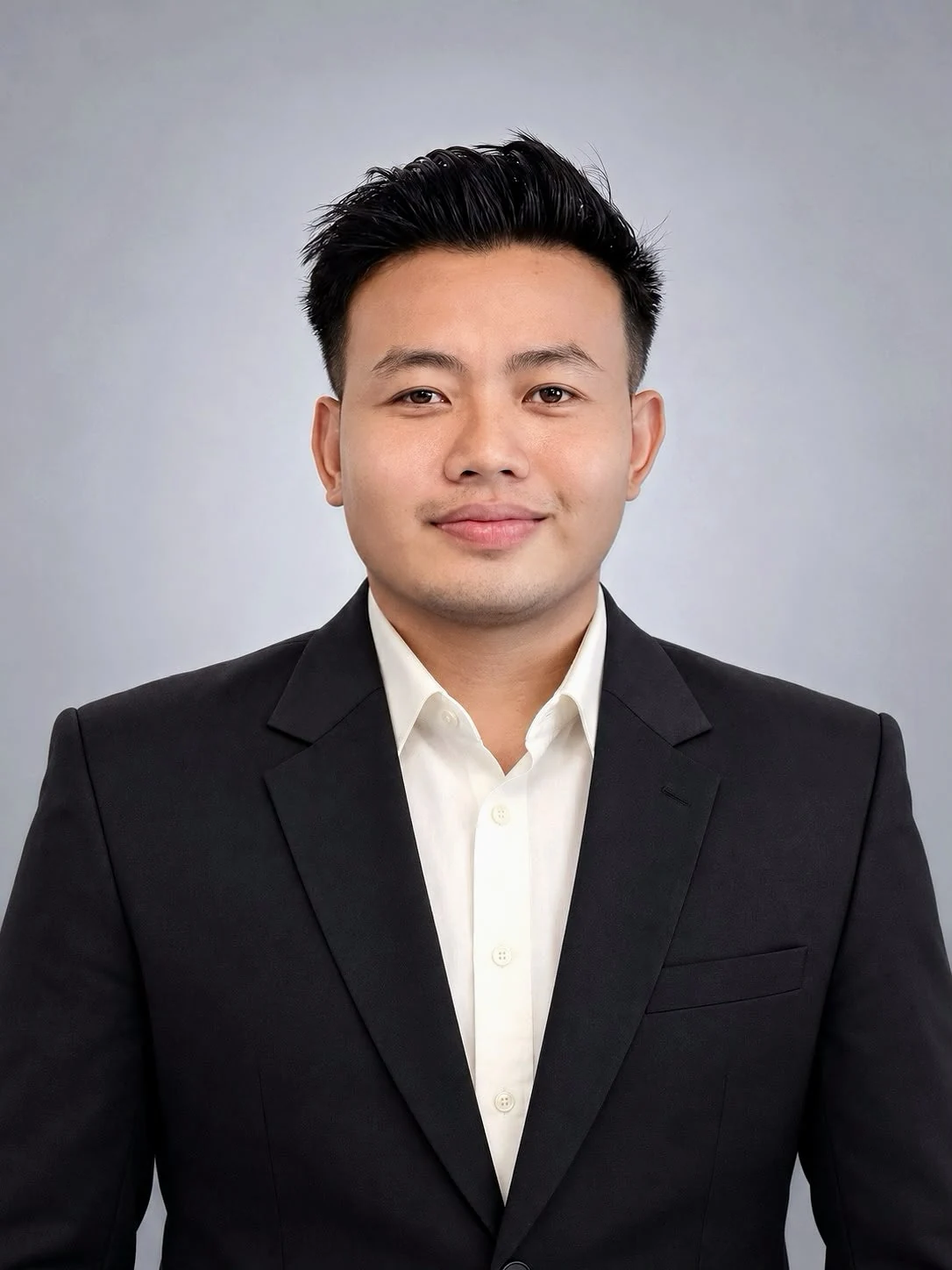
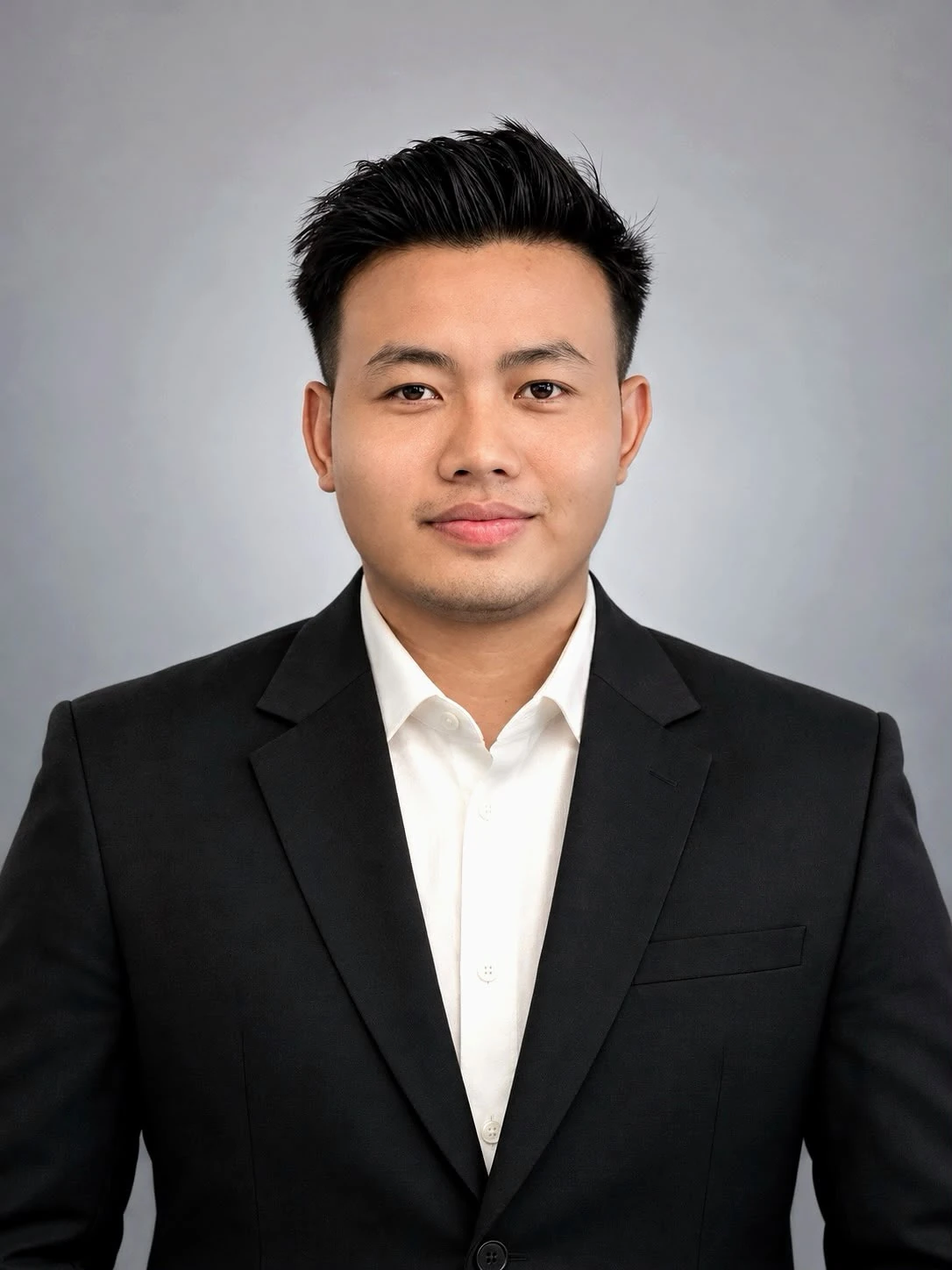
Update portfolio website

diff --git a/index.html b/index.html
@@ -1,33 +1,95 @@
-<!doctype html>
+<!DOCTYPE html>
+
 <html lang="en">
 <head>
-  <meta charset="utf-8">
-  <meta name="viewport" content="width=device-width, initial-scale=1">
-  <meta name="theme-color" content="#071728">
-  <meta name="description" content="Sandi Rahman — Quality Assurance / IPQC Staff with a manufacturing background. Selected work in drone assembly, process improvement, workplace standardization, and quality systems.">
-  <meta property="og:title" content="Sandi Rahman | Manufacturing & Quality Portfolio">
-  <meta property="og:description" content="From production operations to quality assurance. Explore manufacturing projects, 5S, jig standardization and practical quality improvement.">
-  <meta property="og:type" content="website">
-  <title>Sandi Rahman — Manufacturing & Quality Portfolio</title>
-  <link rel="icon" href="assets/favicon.svg" type="image/svg+xml">
-  <link rel="preconnect" href="https://fonts.googleapis.com">
-  <link rel="preconnect" href="https://fonts.gstatic.com" crossorigin>
-  <link href="https://fonts.googleapis.com/css2?family=DM+Sans:wght@400;500;600;700;800&family=Space+Grotesk:wght@400;500;600;700&display=swap" rel="stylesheet">
-  <link rel="stylesheet" href="styles.css">
+<meta charset="utf-8"/>
+<meta content="width=device-width, initial-scale=1" name="viewport"/>
+<meta content="#071728" name="theme-color"/>
+<meta content="Sandi Rahman — Quality Assurance / IPQC Staff with a manufacturing background. Selected work in drone assembly, process improvement, workplace standardization, and quality systems." name="description"/>
+<meta content="Sandi Rahman | Manufacturing &amp; Quality Portfolio" property="og:title"/>
+<meta content="From production operations to quality assurance. Explore manufacturing projects, 5S, jig standardization and practical quality improvement." property="og:description"/>
+<meta content="website" property="og:type"/>
+<title>Sandi Rahman — Manufacturing &amp; Quality Portfolio</title>
+<link href="assets/favicon.svg" rel="icon" type="image/svg+xml"/>
+<link href="https://fonts.googleapis.com" rel="preconnect"/>
+<link crossorigin="" href="https://fonts.gstatic.com" rel="preconnect"/>
+<link href="https://fonts.googleapis.com/css2?family=DM+Sans:wght@400;500;600;700;800&amp;family=Space+Grotesk:wght@400;500;600;700&amp;display=swap" rel="stylesheet"/>
+<link href="styles.css" rel="stylesheet"/>
 </head>
 <body>
-  <a class="skip-link" href="#main">Skip to content</a>
-  <div class="scroll-progress" id="scrollProgress" aria-hidden="true"></div>
-  <header class="site-header" id="siteHeader">
-    <div class="header-inner wrap">
-      <a class="brand" href="#top" aria-label="Sandi Rahman — home"><span class="brand-mark">S<span class="brand-slash">/</span>R<span class="brand-dot">.</span></span><span class="brand-wordmark">SANDI RAHMAN<small>MANUFACTURING + QUALITY</small></span></a>
-      <nav class="main-nav" id="mainNav" aria-label="Main navigation">
-        <a href="#about">About</a><a href="#work">Selected work</a><a href="#journey">Career</a><a href="#expertise">Expertise</a><a href="#contact">Contact</a>
-      </nav>
-      <div class="header-actions"><a class="nav-resume" href="assets/CV-Sandi-Rahman.pdf" download>Download CV <span aria-hidden="true">↙</span></a><button class="menu-toggle" id="menuToggle" type="button" aria-label="Open menu" aria-controls="mainNav" aria-expanded="false"><span></span><span></span><span></span></button></div>
-    </div>
-  </header>
+<a class="skip-link" href="#main">Skip to content</a>
+<div aria-hidden="true" class="scroll-progress" id="scrollProgress"></div>
+<header class="site-header" id="siteHeader">
+<div class="header-inner wrap">
+<a aria-label="Sandi Rahman — home" class="brand" href="#top"><span class="brand-mark">S<span class="brand-slash">/</span>R<span class="brand-dot">.</span></span><span class="brand-wordmark">SANDI RAHMAN<small>MANUFACTURING + QUALITY</small></span></a>
+<nav aria-label="Main navigation" class="main-nav" id="mainNav">
+<a href="#about">About</a><a href="#journey">Experience</a><a href="#work">Projects</a><a href="#expertise">Expertise</a><a href="#contact">Contact</a>
+</nav>
+<div class="header-actions"><a class="nav-resume" download="" href="assets/CV-Sandi-Rahman.pdf">Download CV <span aria-hidden="true">↙</span></a><button aria-controls="mainNav" aria-expanded="false" aria-label="Open menu" class="menu-toggle" id="menuToggle" type="button"><span></span><span></span><span></span></button></div>
+</div>
+</header>
+<main id="main">
+<section aria-labelledby="hero-title" class="hero" id="top">
+<div aria-hidden="true" class="hero-grid-lines"></div>
+<div class="wrap hero-layout">
+<div class="hero-copy">
+<div class="eyebrow light"><span class="pulse"></span> PORTFOLIO / 2026 <span class="eyebrow-line"></span> QUALITY ASSURANCE · IPQC</div>
+<h1 id="hero-title">Where <span class="hero-outline">production</span><br/>meets <em>precision.</em></h1>
+<p class="hero-sub">I'm <strong>Sandi Rahman</strong> — a Quality Assurance / IPQC Staff professional with a background in production leadership, hands-on manufacturing, and continuous improvement.</p>
+<div class="hero-buttons"><a class="btn btn-accent" href="#work">Explore selected work <span aria-hidden="true">↗</span></a><a class="btn btn-outline" href="#about">The story behind my work <span aria-hidden="true">↓</span></a></div>
+<div class="hero-facts"><div><strong>05<span class="plus">+</span></strong><span>Years in laptop<br/>manufacturing</span></div><div><strong>04</strong><span>Stages in my<br/>career journey</span></div><div><strong>05</strong><span>Featured<br/>initiatives</span></div></div>
+</div>
+<div class="hero-visual">
+<div class="visual-orbit orbit-one"></div><div class="visual-orbit orbit-two"></div>
+<div class="portrait-frame"><img alt="Professional portrait of Sandi Rahman in a black suit and white shirt" fetchpriority="high" height="1448" src="assets/sandi-profile.webp" width="1086"/><div class="portrait-shine"></div></div>
+<div aria-hidden="true" class="hero-vertical-type">MAKE QUALITY VISIBLE — 001</div>
+<div class="portrait-label"><div class="label-led"></div><div><span>CURRENT POSITION</span><strong>QUALITY ASSURANCE / IPQC STAFF</strong></div><span class="tiny-arrow">↗</span></div>
+<div aria-hidden="true" class="floating-coordinate">SR / 01<br/>JKT — ID</div>
+</div>
+</div>
+<div class="hero-bottom wrap"><span>SCROLL TO DISCOVER <span aria-hidden="true">↓</span></span><span>INSPECTION  /  PEOPLE  /  IMPROVEMENT</span></div>
+</section>
+<section aria-labelledby="about-title" class="intro-section section-pad" id="about">
+<div class="wrap intro-layout">
+<div class="section-rail"><span class="section-index">01 / INTRODUCTION</span><span class="small-line"></span></div>
+<div class="intro-title"><div class="eyebrow dark">THE APPROACH</div><h2 id="about-title">Quality isn't just <br/>a checkpoint.<br/><span>It's a mindset.</span></h2></div>
+<div class="intro-text"><p class="lead">My work connects the reality of the production floor with structured quality control and practical improvements people can sustain.</p><p>From laptop assembly and manpower coordination to IPQC inspection, I bring a production-first perspective to quality. I focus on spotting risks early, standardizing good practices, and working across teams to prevent recurring problems.</p><div class="mini-proof"><span>FIRST PIECE INSPECTION</span><span>BOM VERIFICATION</span><span>5S / 5R</span><span>CAPA</span></div></div>
+</div>
+</section>
+<section aria-labelledby="journey-title" class="journey-section section-pad" id="journey"><div class="wrap journey-layout"><div class="journey-intro"><div class="eyebrow light">02 / EXPERIENCE</div><h2 id="journey-title">Built from the<br/><em>production floor.</em></h2><p>My career has progressed through hands-on assembly, product-quality inspection, production leadership, and Quality Assurance.</p><div class="career-stamp"><span>2021</span><span class="career-arrow">→</span><span>PRESENT</span></div></div><div class="timeline"><div class="timeline-item is-current"><div class="time-range">APR 2024 — PRESENT</div><h3>Quality Assurance Staff – IPQC</h3><p>First-piece inspection, process compliance, material/BOM verification, defect investigations, CAPA and production quality reporting.</p><span class="time-org">PT Tera Data Indonusa Tbk · Axioo</span></div><div class="timeline-item"><div class="time-range">JUL 2022 — MAR 2024</div><h3>Production Leader</h3><p>Manpower allocation, production output monitoring, line discipline, material readiness, operator briefings, and cross-functional coordination.</p><span class="time-org">PT Tera Data Indonusa Tbk · Axioo</span></div><div class="timeline-item"><div class="time-range">APR 2022 — JUN 2022</div><h3>Production Operator – Quality</h3><p>Hardware specification verification, functional testing, visual inspection, defect segregation, and product validation.</p><span class="time-org">PT Tera Data Indonusa Tbk · Axioo</span></div><div class="timeline-item"><div class="time-range">SEP 2021 — MAR 2022</div><h3>Production Operator Intern</h3><p>Laptop assembly, component installation, material readiness checks, and self-inspection following work instructions.</p><span class="time-org">PT Tera Data Indonusa Tbk · Axioo</span></div></div></div></section><section aria-labelledby="work-title" class="work-section section-pad" id="work">
+<div class="wrap">
+<div class="section-heading"><div><div class="eyebrow dark">03 / PROJECT PORTFOLIO</div><h2 id="work-title">Selected work<span class="punct">.</span></h2><p>Real manufacturing experience, process improvements, and digital quality initiatives — presented as individual contributions.</p></div><div class="heading-side">05 INITIATIVES <span aria-hidden="true">↘</span></div></div>
+<div aria-label="Filter projects" class="filters" role="group"><button aria-pressed="true" class="filter is-active" data-filter="all" type="button">All projects <span>05</span></button><button aria-pressed="false" class="filter" data-filter="manufacturing" type="button">Manufacturing</button><button aria-pressed="false" class="filter" data-filter="improvement" type="button">Improvement</button><button aria-pressed="false" class="filter" data-filter="digital" type="button">Digital systems</button></div>
+<article class="project-card flagship" data-category="manufacturing">
+<div class="flagship-art"><button aria-label="Open agricultural drone project documentation" class="image-button" data-caption="Axioo Sekar Agri — manufacturing process and CKD-to-finished-goods documentation" data-img="assets/drone-assembly.webp" type="button"><img alt="Presentation showing six phases of the Axioo Sekar Agri agricultural drone assembly project" loading="lazy" src="assets/drone-assembly.webp"/><span class="view-indicator">VIEW FULL PROJECT IMAGE <span aria-hidden="true">↗</span></span></button></div>
+<div class="project-info"><div class="project-topline"><span class="project-count">PROJECT / 01</span><span class="project-type">MANUFACTURING</span></div><h3>Axioo Sekar Agri<span class="project-subheading">Agricultural drone assembly</span></h3><p>Contributed to the end-to-end manufacturing and assembly of an agricultural drone, from CKD components to finished goods, supporting the company's TKDN initiative.</p><div class="process-line"><span>CKD PREPARATION</span><i aria-hidden="true"></i><span>ASSEMBLY</span><i aria-hidden="true"></i><span>FINISHED GOODS</span></div><div class="project-outcome"><span class="outcome-icon">↗</span><span>Hands-on manufacturing, integration and production process exposure.</span></div><button class="text-action" data-caption="Axioo Sekar Agri — manufacturing process and assembly stages" data-img="assets/drone-assembly.webp" type="button">Explore documentation <span aria-hidden="true">↗</span></button></div>
+<div class="drone-proof">
+<div class="drone-proof-image"><button aria-label="Enlarge documentation photo of finished Axioo Sekar Agri drone" class="drone-evidence-photo" data-caption="Axioo Sekar Agri — photographic documentation of the finished agricultural drone with the project team" data-img="assets/drone-finished-goods.webp" type="button"><img alt="Project documentation showing the completed agricultural drone and manufacturing team" loading="lazy" src="assets/drone-finished-goods.webp"/><span class="photo-magnify">VIEW FULL PHOTO ↗</span></button></div>
+<div class="drone-proof-copy"><span class="proof-index"><span class="proof-dot"></span> FIELD DOCUMENTATION / FINISHED GOODS</span><h4>From assembly<br/><em>to the real unit.</em></h4><p>Photographic evidence of the completed Axioo Sekar Agri drone and the assembly project team, complementing the CKD-to-finished-goods process overview.</p><div class="proof-badges"><span>AGRICULTURAL DRONE</span><span>FINISHED GOODS</span><span>TKDN INITIATIVE</span></div><button class="proof-link" data-caption="Axioo Sekar Agri — completed drone and project team" data-img="assets/drone-finished-goods.webp" type="button">View finished-drone photo <span aria-hidden="true">↗</span></button></div>
+</div></article>
+<article class="project-card improvement-feature" data-category="improvement">
+<div class="project-topline"><span class="project-count">PROJECT / 02</span><span class="project-type">WORKPLACE IMPROVEMENT</span></div>
+<div class="improvement-head"><div><h3>5S / 5R<span class="project-subheading">Workplace standardization</span></h3></div><p>Improving workplace organization through structured storage, area markings, clear material separation and consistent visual management.</p></div>
+<div aria-label="5S improvement documentation" class="gallery-grid">
+<button class="gallery-shot" data-caption="5S / 5R — workbench organization, before and after" data-img="assets/workplace-5s-01.webp" type="button"><img alt="Before-and-after presentation showing a cleaner and more organized workbench" loading="lazy" src="assets/workplace-5s-01.webp"/><span>01 — WORKBENCH <b>↗</b></span></button>
+<button class="gallery-shot" data-caption="5S / 5R — shelf organization, before and after" data-img="assets/workplace-5s-02.webp" type="button"><img alt="Before-and-after presentation showing standardized storage shelves" loading="lazy" src="assets/workplace-5s-02.webp"/><span>02 — STORAGE <b>↗</b></span></button>
+<button class="gallery-shot" data-caption="5S / 5R — single-model material flow and reduced mixing risk (internal IDs obscured)" data-img="assets/workplace-5s-03.webp" type="button"><img alt="Before-and-after presentation of material staging and production walkway" loading="lazy" src="assets/workplace-5s-03.webp"/><span>03 — MATERIAL FLOW <b>↗</b></span></button>
+<button class="gallery-shot" data-caption="5S / 5R — area visual labels and workplace zoning" data-img="assets/workplace-5s-04.webp" type="button"><img alt="Before-and-after presentation of designated zones and visual signage" loading="lazy" src="assets/workplace-5s-04.webp"/><span>04 — VISUAL CONTROL <b>↗</b></span></button>
+<button aria-label="Open visual management documentation for red NG and green OK after repair racks" class="gallery-shot featured-rack" data-caption="5S visual management — red storage rack designated for NG units; green rack for OK units after repair" data-img="assets/five-s-visual-racks.webp" type="button"><img alt="5S improvement poster showing a red NG rack and green OK after repair rack with visual area signs" loading="lazy" src="assets/five-s-visual-racks.webp"/><span>05 — RED / GREEN RACK VISUAL CONTROL <b aria-hidden="true">↗</b></span></button></div><div class="gallery-footnote"><span><span class="dot-blue"></span> 05 documented 5S improvements</span><span>Tap any image to zoom and view the full slide.</span></div>
+</article>
+<article class="project-card jig-feature" data-category="improvement">
+<div class="jig-copy"><div class="project-topline"><span class="project-count">PROJECT / 03</span><span class="project-type">PROCESS STANDARDIZATION</span></div><h3>Standardization<br/>of sticker <span class="cyan-word">JIG.</span></h3><p>Designed and implemented a sticker positioning jig for product and box labels to improve consistency, make alignment easier for operators, and help reduce labeling-related complaints.</p><div class="jig-highlights"><span>01 / POSITION</span><span>02 / VERIFY</span><span>03 / REPEAT</span></div><button class="text-action" data-caption="Sticker positioning JIG — process, alignment check, and consistent application (codes obscured)" data-img="assets/jig-standardization.webp" type="button">View the process <span aria-hidden="true">↗</span></button></div>
+<div class="jig-art"><button aria-label="Open sticker jig implementation slide" class="image-button" data-caption="Sticker positioning JIG — presentation (barcodes and serial details obscured)" data-img="assets/jig-standardization.webp" type="button"><img alt="Three-step sticker positioning JIG standardization slide" loading="lazy" src="assets/jig-standardization.webp"/><span class="view-indicator">VIEW FULL SLIDE ↗</span></button></div>
+</article>
+<div class="digital-grid">
+<article class="project-card digital-card" data-category="digital"><div class="project-topline"><span class="project-count">PROJECT / 04</span><span class="project-type">QUALITY REPORTING</span></div><div aria-label="Illustrative reporting workflow, not an actual application screenshot" class="digital-illustration"><div class="diagram-header"><span class="mini-bars">▥</span><span>DAILY QUALITY REVIEW</span><span class="diagram-live">WORKFLOW</span></div><div class="chart-placeholder"><div class="bar" style="--h:43%"></div><div class="bar" style="--h:65%"></div><div class="bar" style="--h:48%"></div><div class="bar" style="--h:83%"></div><div class="bar" style="--h:60%"></div><div class="bar" style="--h:100%"></div><div class="bar" style="--h:73%"></div></div><div class="diagram-bottom"><span>COLLECT</span><span>→</span><span>CONSOLIDATE</span><span>→</span><span>REVIEW</span></div></div><h3>Automated daily<br/>review reporting</h3><p>Built an Excel-based reporting template to streamline compilation of production and quality data and support management reviews.</p><span class="illustration-disclaimer">Workflow illustration • no internal data displayed</span></article>
+<article class="project-card digital-card" data-category="digital"><div class="project-topline"><span class="project-count">PROJECT / 05</span><span class="project-type">QUALITY SYSTEMS</span></div><div aria-label="Illustrative Severity, Occurrence, Detection risk scoring workflow" class="risk-illustration"><div class="risk-column"><span>SEVERITY</span><strong>S</strong></div><span class="times">×</span><div class="risk-column"><span>OCCURRENCE</span><strong>O</strong></div><span class="times">×</span><div class="risk-column"><span>DETECTION</span><strong>D</strong></div><span class="risk-chevron">↗</span><div class="risk-result">RISK PRIORITY</div></div><h3>Digital quality findings<br/>&amp; risk assessment</h3><p>Developed a Google Forms-based finding system using Severity, Occurrence, and Detection to support prioritization, traceability, and corrective-action follow-up.</p><span class="illustration-disclaimer">Concept diagram • not a production screenshot</span></article>
+</div>
+<p class="empty-filter" hidden="" id="emptyFilter">No projects match this category.</p>
+</div>
+</section>
 
+<<<<<<< Updated upstream
   <main id="main">
     <section class="hero" id="top" aria-labelledby="hero-title">
       <div class="hero-grid-lines" aria-hidden="true"></div>
@@ -106,5 +168,19 @@
 
   <div class="lightbox" id="lightbox" role="dialog" aria-modal="true" aria-label="Portfolio image viewer" aria-hidden="true" hidden><div class="lightbox-backdrop" data-close="true"></div><div class="viewer"><div class="viewer-top"><span class="viewer-counter" id="viewerCounter">01 / 01</span><div class="viewer-tools"><button type="button" id="zoomOut" aria-label="Zoom out">−</button><span id="zoomDisplay">100%</span><button type="button" id="zoomIn" aria-label="Zoom in">+</button><button type="button" id="zoomReset" aria-label="Reset zoom">↺</button><button class="viewer-close" type="button" id="viewerClose" aria-label="Close viewer">✕</button></div></div><div class="viewer-stage" id="viewerStage"><button class="viewer-arrow prev" type="button" id="viewerPrev" aria-label="Previous image">‹</button><img id="viewerImage" alt=""><button class="viewer-arrow next" type="button" id="viewerNext" aria-label="Next image">›</button></div><div class="viewer-bottom"><p id="viewerCaption"></p><span>← → NAVIGATE <span class="hide-mobile">·</span> ESC TO CLOSE</span></div></div></div>
   <script src="script.js" defer></script>
+=======
+<section aria-labelledby="expertise-title" class="expertise-section section-pad" id="expertise"><div class="wrap"><div class="section-heading"><div><div class="eyebrow dark">04 / CAPABILITIES</div><h2 id="expertise-title">How I create value<span class="punct">.</span></h2><p>Practical technical capabilities supported by daily manufacturing experience.</p></div></div><div class="capability-grid"><div class="capability"><span aria-hidden="true" class="cap-icon">◎</span><span class="cap-number">01</span><h3>Quality inspection</h3><p>First Piece Inspection, IPQC, process audit, BOM checks, nonconformity control.</p></div><div class="capability"><span aria-hidden="true" class="cap-icon">⤧</span><span class="cap-number">02</span><h3>Problem solving</h3><p>RCA, 5 Whys, Fishbone, QC Seven Tools, PDCA, CAPA and FMEA.</p></div><div class="capability"><span aria-hidden="true" class="cap-icon">▤</span><span class="cap-number">03</span><h3>Operations &amp; people</h3><p>Production supervision, manpower planning, operator training, performance monitoring.</p></div><div class="capability"><span aria-hidden="true" class="cap-icon">⌁</span><span class="cap-number">04</span><h3>Data &amp; improvement</h3><p>Excel reporting, defect-trend analysis, workplace 5S/5R, visual management, Lean improvement.</p></div></div>
+<div class="extra-grid"><div class="education"><div class="eyebrow dark">EDUCATION</div><h3>Industrial Engineering<br/><span>in progress.</span></h3><p><strong>Universitas Pamulang</strong> · 2025 – Expected 2026</p><p>Bachelor of Engineering in Industrial Engineering (in progress).</p><div class="edu-divider"></div><p><strong>SMK Islam Inayah Ujung Batu</strong> · 2018 – 2021</p><p>Computer and Network Engineering.</p></div><div class="learning"><div class="eyebrow dark">KNOWLEDGE SHARING</div><div class="knowledge-gallery">
+<div class="knowledge-shot"><button class="talk-photo" data-caption="Knowledge sharing: Sandi presenting the connection between 5S, occupational safety (K3) and productivity" data-img="assets/safety-talk.webp" type="button"><img alt="Sandi beside a presentation screen explaining 5S and occupational safety (K3)" loading="lazy" src="assets/safety-talk.webp"/><span class="view-indicator">VIEW PHOTO ↗</span></button><span class="photo-caption">01 / 5S &amp; K3 AWARENESS</span></div>
+<div class="knowledge-shot"><button class="talk-photo" data-caption="5S &amp; K3 knowledge sharing — explaining how workplace organization supports productivity" data-img="assets/five-s-k3-presentation.webp" type="button"><img alt="Sandi explaining the integration of 5S and K3 to improve productivity" loading="lazy" src="assets/five-s-k3-presentation.webp"/><span class="view-indicator">VIEW PHOTO ↗</span></button><span class="photo-caption">02 / PRACTICAL EXPLANATION</span></div>
+</div><h3>Communicating quality on the floor.</h3><p>Experienced in production briefings, factory tours, and communicating work standards to teams and visitors.</p></div></div>
+<div class="cert-row"><strong>TRAINING &amp; CERTIFICATIONS</strong><span>Vocational Competency – Computer and Network Engineering</span><span>Engineering Innovation &amp; Ethics</span><span>Industrial Internship – PT Tera Data Indonusa Tbk</span></div>
+</div></section>
+<section aria-labelledby="contact-title" class="contact-section" id="contact"><div class="wrap contact-layout"><div aria-hidden="true" class="contact-graphic"><div class="contact-orbit"></div><span>S/R</span></div><div class="contact-copy"><div class="eyebrow light">05 / LET'S CONNECT</div><h2 id="contact-title">Let's build something<br/><em>better together.</em></h2><p>Interested in manufacturing, quality assurance, improvement projects or sharing industry ideas? I'm open to connecting.</p><div class="contact-buttons"><a class="btn btn-accent" href="mailto:sandirahman2314@gmail.com?subject=Hello%20Sandi%20%E2%80%94%20Portfolio%20Inquiry">Email Sandi <span aria-hidden="true">↗</span></a><a class="btn btn-outline" href="https://www.linkedin.com/in/sandi-rahman-a94563338/" rel="noopener noreferrer" target="_blank">LinkedIn profile <span aria-hidden="true">↗</span></a></div><a class="contact-email" href="mailto:sandirahman2314@gmail.com">sandirahman2314@gmail.com</a></div></div></section>
+</main>
+<footer class="site-footer"><div class="wrap footer-inner"><a class="footer-brand" href="#top">S/R<span>.</span></a><p>© <span id="year">2026</span> Sandi Rahman. Personal manufacturing &amp; quality portfolio.</p><a href="#top">BACK TO TOP ↑</a></div><div class="wrap footer-disclaimer">Personal career portfolio; not an official company publication. Illustrations are conceptual. Confirm permissions for any company-related photographs or documentation before public deployment.</div></footer>
+<div aria-hidden="true" aria-label="Portfolio image viewer" aria-modal="true" class="lightbox" hidden="" id="lightbox" role="dialog"><div class="lightbox-backdrop" data-close="true"></div><div class="viewer"><div class="viewer-top"><span class="viewer-counter" id="viewerCounter">01 / 01</span><div class="viewer-tools"><button aria-label="Zoom out" id="zoomOut" type="button">−</button><span id="zoomDisplay">100%</span><button aria-label="Zoom in" id="zoomIn" type="button">+</button><button aria-label="Reset zoom" id="zoomReset" type="button">↺</button><button aria-label="Close viewer" class="viewer-close" id="viewerClose" type="button">✕</button></div></div><div class="viewer-stage" id="viewerStage"><button aria-label="Previous image" class="viewer-arrow prev" id="viewerPrev" type="button">‹</button><img alt="" id="viewerImage"/><button aria-label="Next image" class="viewer-arrow next" id="viewerNext" type="button">›</button></div><div class="viewer-bottom"><p id="viewerCaption"></p><span>← → NAVIGATE <span class="hide-mobile">·</span> ESC TO CLOSE</span></div></div></div>
+<script defer="" src="script.js"></script>
+>>>>>>> Stashed changes
 </body>
 </html>

diff --git a/styles.css b/styles.css
@@ -2,3 +2,40 @@
 @media (max-width:1200px){.wrap{width:min(100% - 60px,1260px)}.main-nav{gap:19px}.hero h1{letter-spacing:-3.5px}.hero-layout{grid-template-columns:1.05fr .95fr}.hero-facts{gap:19px}.hero-facts strong{font-size:32px}.hero-facts span:not(.plus){font-size:9px}.intro-layout{grid-template-columns:120px 1.1fr 1fr;gap:27px}.jig-copy{padding:34px}.process-line{gap:6px}}@media(max-width:980px){.nav-resume{padding:12px 14px}.main-nav{position:absolute;top:84px;left:0;right:0;background:#061b2d;padding:18px 30px 28px;flex-direction:column;align-items:stretch;gap:4px;border-bottom:1px solid #2a4f69;display:none;box-shadow:0 25px 50px #0006}.main-nav.open{display:flex}.main-nav a{padding:12px;border-bottom:1px solid #18364b}.menu-toggle{display:flex}.menu-toggle[aria-expanded="true"] span:nth-child(1){transform:translateY(7px) rotate(45deg)}.menu-toggle[aria-expanded="true"] span:nth-child(2){opacity:0}.menu-toggle[aria-expanded="true"] span:nth-child(3){transform:translateY(-7px) rotate(-45deg)}.hero-layout{grid-template-columns:1fr .8fr;gap:8px}.hero h1{font-size:clamp(46px,6vw,66px);letter-spacing:-3px}.hero-visual{min-height:365px;height:44vw}.hero-sub{font-size:14px}.hero-facts{gap:13px}.hero-facts>div{flex-direction:column;align-items:flex-start}.portrait-label{left:-16px;right:-7px;padding:13px}.portrait-label strong{font-size:10px}.intro-layout{grid-template-columns:1fr 1fr}.section-rail{grid-column:1/-1}.flagship{min-height:unset;grid-template-columns:1fr}.flagship-art{min-height:365px}.flagship-art .image-button{height:auto}.flagship-art img{height:auto}.project-info{padding:36px}.project-info h3{margin:27px 0}.jig-feature{grid-template-columns:1fr}.jig-art{padding:35px}.jig-art .image-button{height:auto}.jig-copy h3{margin:25px 0}.journey-layout{gap:35px}.capability-grid{grid-template-columns:repeat(2,1fr)}.capability{min-height:210px}.extra-grid{grid-template-columns:1fr 1fr}.contact-layout{grid-template-columns:.35fr 1fr;gap:35px}.contact-graphic:before,.contact-orbit{width:200px;height:200px}.contact-graphic>span{font-size:74px}}@media(max-width:700px){.wrap{width:calc(100% - 36px)}.header-inner{height:72px}.brand{min-width:0}.brand-mark{width:43px;height:43px}.brand-wordmark{font-size:12px}.brand-wordmark small{font-size:7px;letter-spacing:1px}.site-header .nav-resume{font-size:10px;padding:12px;gap:8px}.main-nav{top:72px}.hero{min-height:0}.hero-layout{display:flex;flex-direction:column;padding-top:123px;padding-bottom:37px;align-items:stretch;gap:28px}.hero-copy{position:relative;z-index:2}.eyebrow{font-size:9px;letter-spacing:1.2px;flex-wrap:wrap}.hero h1{font-size:clamp(42px,11.3vw,67px);letter-spacing:-2.8px;margin:29px 0 20px}.hero-sub{max-width:520px;font-size:14px;line-height:1.8}.hero-buttons{gap:9px}.btn{font-size:11px;padding:14px 15px;min-height:46px;gap:14px}.hero-facts{margin-top:37px;gap:24px;padding-top:20px}.hero-facts strong{font-size:32px}.hero-facts span:not(.plus){font-size:9px}.hero-visual{width:min(460px,94%);height:390px;min-height:0;margin:0 auto;transform:translateX(4px)}.portrait-frame{width:70%;max-width:300px}.hero-vertical-type{right:-6px}.portrait-label{left:-4px;right:-5px;bottom:3px}.floating-coordinate{left:7px;top:20px}.hero-bottom{padding:14px 0 19px}.hero-bottom span:last-child{display:none}.section-pad{padding:79px 0}.intro-layout{display:block}.section-rail{margin-bottom:32px;flex-direction:row;align-items:center}.intro-title h2,.section-heading h2,.journey-intro h2,.contact-copy h2{font-size:clamp(39px,9vw,56px);letter-spacing:-2px}.intro-text{margin-top:28px}.intro-text p.lead{font-size:18px}.section-heading{margin-bottom:25px}.heading-side{display:none}.filters{display:flex;flex-wrap:nowrap;overflow-x:auto;scrollbar-width:thin;gap:7px;margin-right:-18px;padding-bottom:9px}.filter{flex-shrink:0;padding:11px 12px;font-size:10px}.flagship-art{min-height:0}.project-info{padding:27px 23px}.project-info h3,.improvement-feature h3,.jig-feature h3{font-size:35px;letter-spacing:-1.3px}.project-info p,.jig-copy p{font-size:13px}.project-type,.project-count{font-size:9px}.improvement-feature{padding:23px}.improvement-head{display:block}.improvement-head p{margin:17px 0 22px;font-size:13px}.gallery-grid{grid-template-columns:1fr;gap:12px}.gallery-footnote{flex-direction:column;align-items:flex-start;font-size:10px}.jig-copy{padding:28px 24px}.jig-art{padding:16px}.digital-grid{grid-template-columns:1fr;gap:20px}.digital-card{padding:24px;min-width:0}.digital-card h3{font-size:29px}.digital-illustration,.risk-illustration{height:210px}.risk-column{min-width:55px;padding:12px 6px}.risk-column span{font-size:7px}.risk-column strong{font-size:31px}.risk-result{font-size:8px;padding:11px 8px}.risk-illustration{gap:7px;padding:10px}.journey-layout{display:block}.journey-intro{position:static;margin-bottom:57px}.journey-intro h2{margin:22px 0}.career-stamp{margin-top:24px}.timeline{margin-left:5px}.timeline-item{padding-left:27px;padding-bottom:41px}.timeline-item h3{font-size:21px}.timeline-item:before{left:-26.5px}.capability-grid{grid-template-columns:1fr 1fr;gap:9px}.capability{min-height:233px;padding:22px 16px}.capability h3{font-size:16px;margin:22px 0 9px}.capability p{font-size:11px}.cap-icon{width:46px;height:46px}.extra-grid{grid-template-columns:1fr;gap:14px}.education,.learning{padding:26px}.education h3{font-size:30px}.talk-photo{height:240px}.cert-row{align-items:flex-start;flex-direction:column;gap:12px}.contact-layout{grid-template-columns:1fr;gap:0;padding:78px 0 72px}.contact-graphic{height:170px;justify-content:start}.contact-graphic:before,.contact-orbit{width:155px;height:155px}.contact-graphic>span{font-size:56px;margin-left:31px}.contact-copy h2{font-size:39px}.footer-inner{flex-wrap:wrap;gap:12px}.footer-inner p{order:3;flex-basis:100%}.viewer{height:88vh}.lightbox{padding:9px}.viewer-top,.viewer-bottom{padding:8px 10px}.viewer-bottom>span{display:none}.viewer-bottom p{white-space:normal;font-size:11px}.viewer-tools button{min-width:32px;height:33px}.viewer-arrow{width:29px;height:46px;font-size:27px}.viewer-tools #viewerClose{margin-left:4px}.viewer-counter{font-size:10px}}
 @media(max-width:390px){.brand-wordmark{font-size:10px}.brand-wordmark small{font-size:6px}.brand{gap:8px}.site-header .nav-resume{padding:9px 8px;font-size:9px}.header-actions{gap:7px}.hero h1{font-size:39px}.hero-facts{gap:15px}.hero-visual{height:340px}.btn{font-size:10px}.capability-grid{grid-template-columns:1fr}.capability{min-height:0}}
 @media(prefers-reduced-motion:reduce){html{scroll-behavior:auto}*,*:before,*:after{transition:none!important;animation:none!important}}
+
+
+/* 2026-10-27 portfolio revision: rectangular portrait, experience first and full documentation. */
+.portrait-frame{width:84%;max-width:425px;border-radius:17px;background:#aeb8c4;box-shadow:0 28px 76px rgba(0,0,0,.42),0 0 0 8px rgba(42,132,186,.12);border:1px solid rgba(101,193,245,.52)}
+.portrait-frame:before{inset:10px;border-radius:9px;border-color:rgba(255,255,255,.24)}
+.portrait-frame img{object-position:50% 20%;object-fit:cover}
+.portrait-label{transform:none;left:-16px;right:-16px;bottom:5px;border-left:4px solid #45d9ff}
+.visual-orbit.orbit-one{border-radius:28px;transform:translate(-50%,-50%) rotate(13deg);width:88%;height:90%;aspect-ratio:auto}
+.visual-orbit.orbit-two{border-radius:30px;transform:translate(-50%,-50%) rotate(-10deg);width:102%;height:104%;aspect-ratio:auto}
+.drone-proof{grid-column:1/-1;display:grid;grid-template-columns:minmax(0,.43fr) minmax(0,.57fr);min-width:0;background:linear-gradient(113deg,#061526 0%,#0a2943 68%,#0b3759 100%);border-top:1px solid #26506b;overflow:hidden}
+.drone-proof-image{position:relative;display:grid;place-items:center;background:radial-gradient(circle at center,#164568,#071626 70%);padding:30px 25px}
+.drone-evidence-photo{border:1px solid rgba(85,208,250,.55);background:#071626;padding:0;width:auto;height:430px;max-width:100%;position:relative;cursor:zoom-in;overflow:hidden;box-shadow:0 20px 60px #020d1a95;display:block}
+.drone-evidence-photo img{width:auto;height:100%;max-width:100%;object-fit:contain;transition:transform .25s}
+.drone-evidence-photo:hover img{transform:scale(1.025)}
+.photo-magnify{position:absolute;bottom:0;left:0;right:0;background:#071927ea;text-align:center;padding:13px;color:#a0e9ff;font-size:10px;font-weight:800;letter-spacing:1px}
+.drone-proof-copy{padding:60px clamp(28px,5vw,80px);align-self:center;color:#f5fbff}
+.proof-index{font-size:10px;font-weight:800;color:#52d8f4;letter-spacing:2px;display:flex;align-items:center;gap:11px}
+.proof-dot{width:7px;height:7px;border-radius:50%;background:#45d9ff;box-shadow:0 0 0 5px #45d9ff20}
+.drone-proof h4{font:700 clamp(34px,4vw,59px)/1.1 var(--display);letter-spacing:-2.5px;margin:28px 0 22px}
+.drone-proof h4 em{font-style:normal;color:#54d7f5}
+.drone-proof p{color:#aac5d7;font-size:14px;line-height:1.9;max-width:460px}
+.proof-badges{display:flex;flex-wrap:wrap;gap:8px;margin:25px 0}
+.proof-badges span{border:1px solid #416b87;padding:10px 12px;color:#a5d3e9;font-size:9px;letter-spacing:.6px;font-weight:800}
+.proof-link{background:none;border:0;border-bottom:1px solid #45d9ff;color:#51d6ff;padding:9px 0;font-weight:800;font-size:12px;cursor:zoom-in}
+.proof-link span{margin-left:17px}
+.featured-rack{grid-column:1/-1;background:#eaf5ff;border-color:#a4cee9}
+.featured-rack img{aspect-ratio:16/9;max-height:650px;width:100%;object-fit:contain;background:#eaf5ff}
+.featured-rack>span{color:#123f65;font-size:11px;letter-spacing:.6px}
+.knowledge-gallery{display:grid;grid-template-columns:repeat(2,minmax(0,1fr));gap:12px;margin:22px 0 21px}
+.knowledge-shot{min-width:0}
+.knowledge-shot .talk-photo{margin:0 0 10px;height:190px;display:block}
+.knowledge-shot .talk-photo img{object-fit:cover;object-position:center center}
+.knowledge-shot .view-indicator{padding:6px 8px;font-size:8px;bottom:8px;right:8px}
+.photo-caption{font-size:9px;font-weight:800;letter-spacing:1px;color:#4a7792}
+@media(max-width:980px){.drone-proof-copy{padding:40px 32px}.drone-evidence-photo{height:370px}.knowledge-gallery{gap:9px}.knowledge-shot .talk-photo{height:160px}}
+@media(max-width:700px){.portrait-frame{width:78%;max-width:310px;border-radius:14px}.portrait-frame:before{border-radius:8px}.portrait-label{left:-6px;right:-6px}.drone-proof{grid-template-columns:1fr}.drone-proof-image{padding:24px 18px}.drone-evidence-photo{height:360px}.drone-proof-copy{padding:31px 26px 35px}.drone-proof h4{font-size:38px}.featured-rack{grid-column:auto}.knowledge-gallery{grid-template-columns:1fr;gap:16px}.knowledge-shot .talk-photo{height:245px}.photo-caption{font-size:10px}}
+@media(max-width:400px){.drone-evidence-photo{height:320px}.drone-proof h4{font-size:33px}.hero-visual{height:350px}}

diff --git a/UPDATE-NOTES.md b/UPDATE-NOTES.md
@@ -1,0 +1,15 @@
+# Sandi Rahman Portfolio — Revised 27 October 2026
+
+## Applied changes
+
+1. The portrait is now a rectangular professional photo frame (not an oval). The profile photograph is updated using the newly provided formal portrait.
+2. The Experience section and navigation appear immediately after Introduction, before the five project cards.
+3. Axioo Sekar Agri now includes a separate finished-drone documentation image with its own enlarge action.
+4. Knowledge Sharing now contains two distinct presentation photographs about 5S, K3, and productivity.
+5. The 5S / 5R project gallery now includes a fifth visual-management slide depicting a red NG unit rack and a green OK-after-repair rack.
+
+All new documentation images open in the existing keyboard-accessible lightbox with full-aspect-ratio display and zoom. Project filters and mobile navigation are unchanged. The site uses static HTML/CSS/JavaScript and works on GitHub Pages.
+
+## Publication notes
+
+Review company consent prior to publishing company-branded material, staff photographs, and workplace photos on a public portfolio. The images were provided for this revision; publication permissions were not independently verified. Retain or substitute redacted images if company policy requires it.
